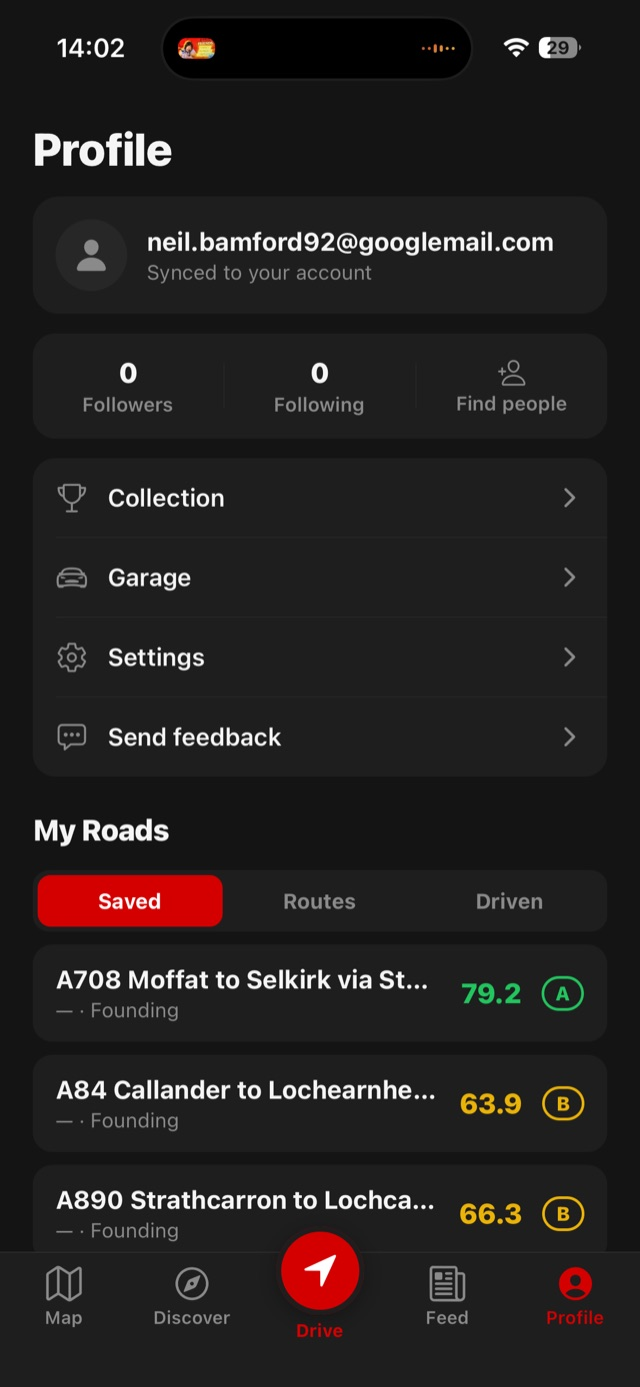
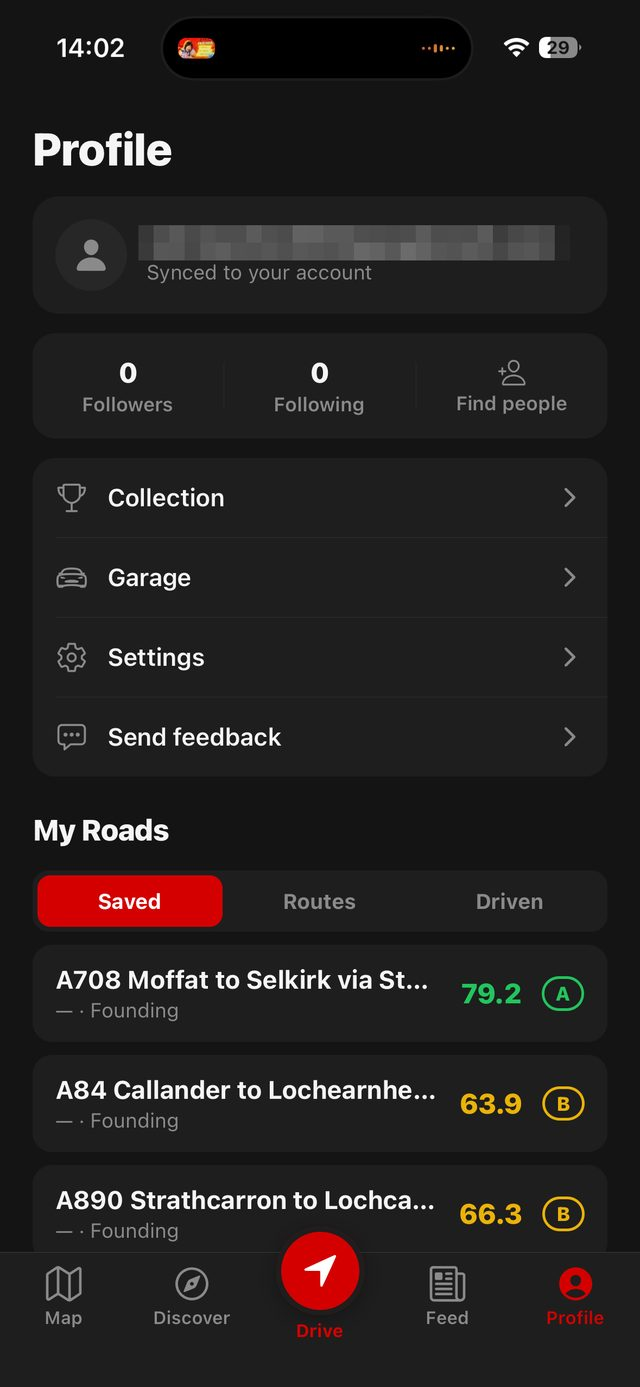
beta page: smaller screenshot frames (never stretched); email obscured in the profile and form shots

diff --git a/assets/pages.css b/assets/pages.css
@@ -248,7 +248,7 @@ footer .wordmark { font-size: 22px; }
 .section-card h3:first-of-type { margin-top: 4px; }
 .section-card ol + p, .section-card ul + p { margin-top: 14px; }
 .section-card ol + h3, .section-card ul + h3, .section-card p + h3 { margin-top: 24px; }
-.shots { display: grid; grid-template-columns: repeat(auto-fit, minmax(150px, 1fr)); gap: 14px; margin: 18px 0 4px; }
+.shots { display: grid; grid-template-columns: repeat(auto-fill, minmax(110px, 140px)); justify-content: start; gap: 14px; margin: 18px 0 4px; }
 .shot { margin: 0; }
 .shot img { display: block; width: 100%; height: auto; border-radius: 14px; border: 1px solid rgba(255,255,255,.08); }
 .shot figcaption { font-size: 12.5px; line-height: 1.45; color: var(--text-secondary); margin-top: 8px; }
